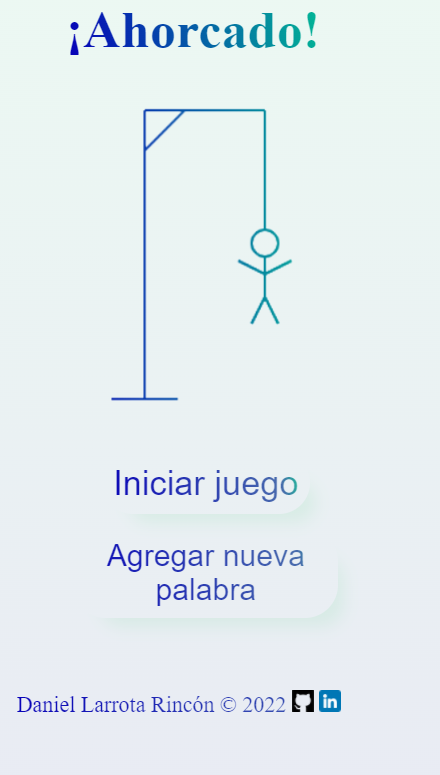
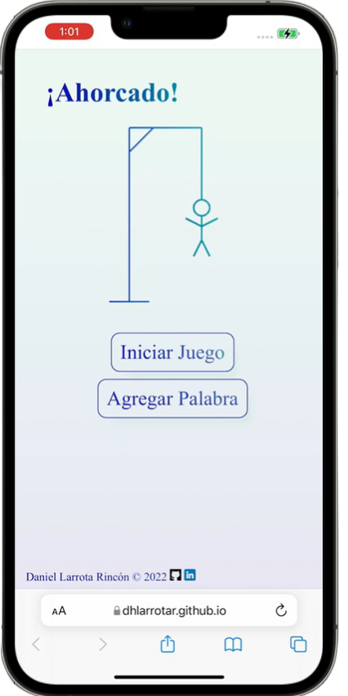
update readme.md

diff --git a/css/style.css b/css/style.css
@@ -52,16 +52,18 @@ html{
 	margin-left: 10px;
 	display: inline-block;
 	width: 70%;
+	max-width: 180px;
+	height: auto;
 	text-align: center;
 	align-items: center;
-	vertical-align: top;
+
 }
 
 
 #iniciar{
 		/* Auto layout */
 		z-index: 1;
-		display: inline-block;
+		display: block;
 		background: none;
 		align-items: center;
 		padding: 5%;
@@ -81,7 +83,7 @@ html{
 #agregar-palabra{
 		/* Auto layout */
 		z-index: 1;
-		display: inline-block;
+		display: block;
 		background: none;
 		align-items: center;
 		padding: 5%;

diff --git a/readme.md b/readme.md
@@ -7,6 +7,8 @@
 <img src="img/captura1.png" height="400px" display="inline-block">
 <img src="img/captura2.png" height="400px" display="inline-block">
 <br><br>
+<img src="img/captura3.png" height="220px" display="inline-block">
+<br><br>
 
 ## Construido con 🛠
 
